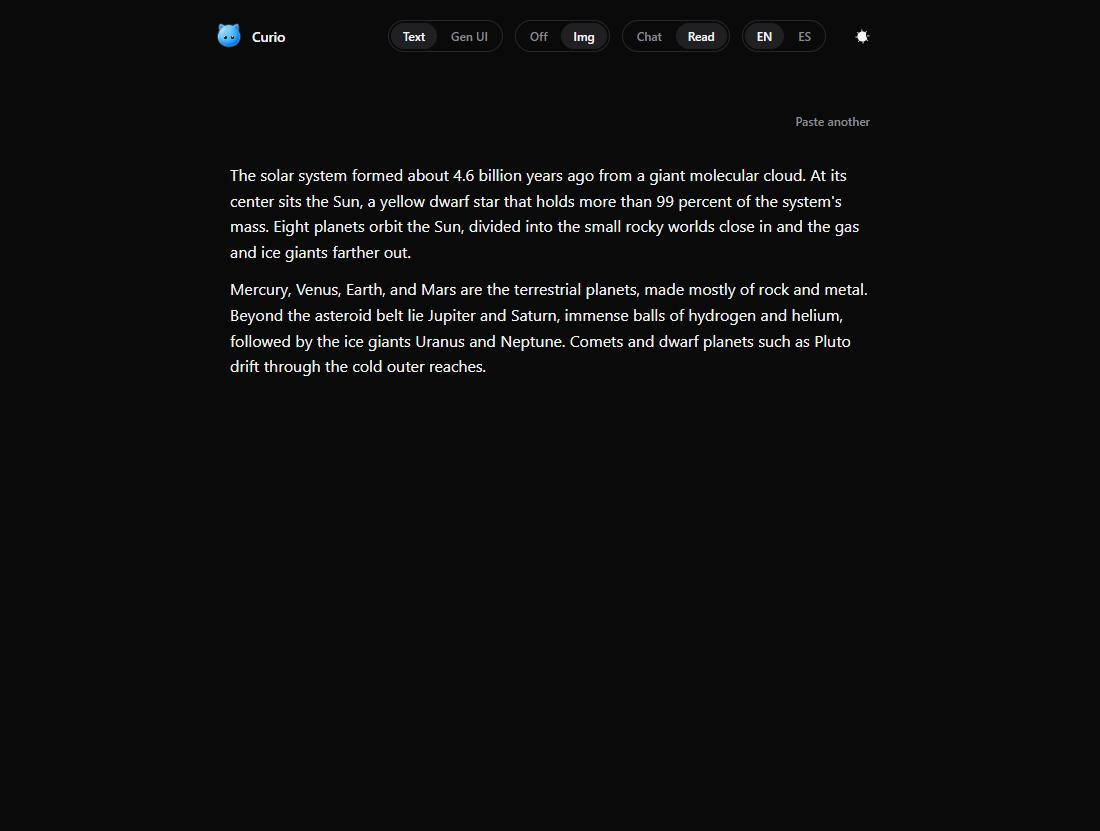
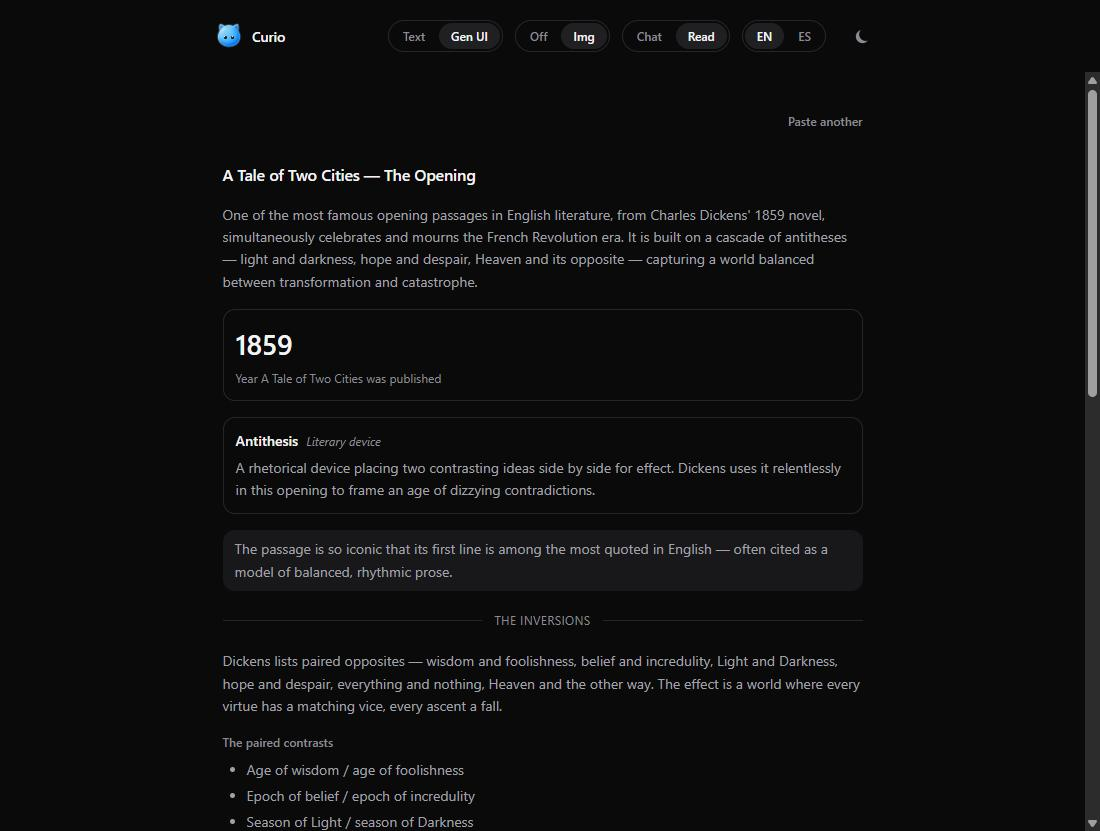
docs: capturas de Read mode con Gen UI (inicio de A Tale of Two Cities)
Rehace read-light/read-dark mostrando Read + Gen UI: el modelo re-expresa el
inicio (dominio público) de "A Tale of Two Cities" como encabezado, prosa, una
stat card (1859), una definición (Antithesis), un callout y la sección de
contrastes. Alt-text actualizado.

diff --git a/README.md b/README.md
@@ -163,8 +163,8 @@ Flip to **Read**, paste an article, and the same engine works on any text — Ma
 
 <div align="center">
 
-<img src="docs/media/read-light.png" alt="Read mode — a pasted article as a reading surface where every word is clickable (light theme)" width="49%" />
-<img src="docs/media/read-dark.png" alt="The same reading in the dark theme" width="49%" />
+<img src="docs/media/read-light.png" alt="Read mode with Gen UI — a book's opening re-expressed as a heading, prose, a stat card, a definition and a callout (light theme)" width="49%" />
+<img src="docs/media/read-dark.png" alt="The same Gen UI reading in the dark theme" width="49%" />
 
 </div>
 
